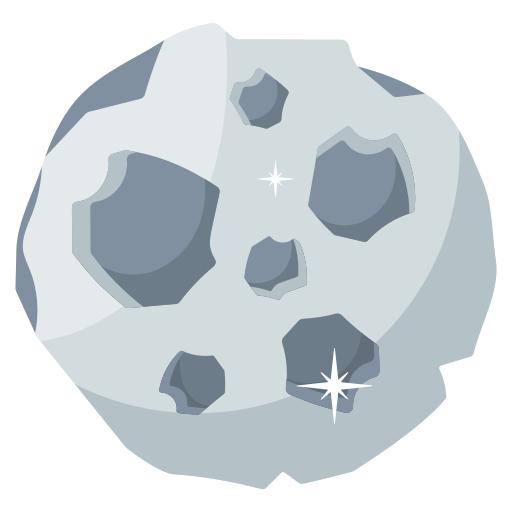
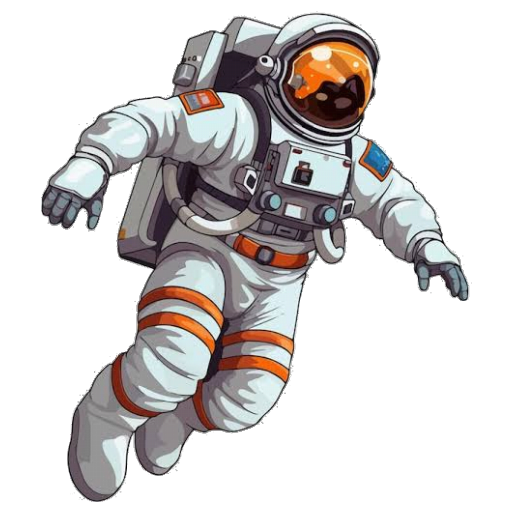
astronauta al posto delle pleiadi

diff --git a/giochi/slot/slot.py b/giochi/slot/slot.py
@@ -437,7 +437,7 @@ NOMI_TEMA = {
         "cuori": "Mars", "picche": "Exoplanet", "fiori": "Uranus",
         "quadri": "Neptune",
         "campana": "TRAPPIST-1", "ferro": "Proxima", "quadrifoglio": "Jupiter",
-        "carte": "Earth", "roulette": "Saturn", "fiches": "Pleiades",
+        "carte": "Earth", "roulette": "Saturn", "fiches": "Astronaut",
         "gemma": "UFO", "bar": "Rocket", "sette": "Sun",
         "regalo": "Alien",
         "dollaro": "Galaxy", "palla8": "Nebula",
@@ -451,7 +451,7 @@ NOMI_TEMA_LINGUA = {
                "mela": "Plutone", "fragola": "Luna", "anguria": "Mercurio",
                "uva": "Venere", "cuori": "Marte", "picche": "Esopianeta",
                "fiori": "Urano", "quadri": "Nettuno", "quadrifoglio": "Giove",
-               "carte": "Terra", "roulette": "Saturno", "fiches": "Pleiadi",
+               "carte": "Terra", "roulette": "Saturno", "fiches": "Astronauta",
                "gemma": "UFO", "bar": "Razzo", "regalo": "Alieno", "sette": "Sole",
                "dollaro": "Galassia", "palla8": "Nebulosa",
                "jolly": "Spazio", "dadi": "Cometa"},
@@ -459,7 +459,7 @@ NOMI_TEMA_LINGUA = {
                "mela": "Pluton", "fragola": "Lune", "anguria": "Mercure",
                "uva": "Venus", "cuori": "Mars", "picche": "Exoplanete",
                "fiori": "Uranus", "quadri": "Neptune", "quadrifoglio": "Jupiter",
-               "carte": "Terre", "roulette": "Saturne", "fiches": "Pleiades",
+               "carte": "Terre", "roulette": "Saturne", "fiches": "Astronaute",
                "gemma": "OVNI", "bar": "Fusee", "regalo": "Alien", "sette": "Soleil",
                "dollaro": "Galaxie", "palla8": "Nebuleuse",
                "jolly": "Espace", "dadi": "Comete"},
@@ -467,7 +467,7 @@ NOMI_TEMA_LINGUA = {
                "mela": "Pluton", "fragola": "Luna", "anguria": "Mercurio",
                "uva": "Venus", "cuori": "Marte", "picche": "Exoplaneta",
                "fiori": "Urano", "quadri": "Neptuno", "quadrifoglio": "Jupiter",
-               "carte": "Tierra", "roulette": "Saturno", "fiches": "Pleyades",
+               "carte": "Tierra", "roulette": "Saturno", "fiches": "Astronauta",
                "gemma": "OVNI", "bar": "Cohete", "regalo": "Alien", "sette": "Sol",
                "dollaro": "Galaxia", "palla8": "Nebulosa",
                "jolly": "Espacio", "dadi": "Cometa"},
@@ -1138,9 +1138,8 @@ ANIMAZIONI = {
         "quadrifoglio": {"gira": 0.78},          # Giove, 9 ore e 55
         "carte": {"gira": 0.50},                 # Terra, 24 ore
         "roulette": {"gira": 0.74},           # Saturno, 10 ore e mezza
-        # le sette sorelle: disegnate dal codice, brillano e la nebbia
-        # azzurra che le avvolge scorre piano
-        "fiches": {"pleiadi": 0.11},
+        # l'astronauta: galleggia piano, come chi non ha peso
+        "fiches": {"onda": 0.055},
         # la galassia a spirale: disegnata dal codice, gira su se stessa
         "dollaro": {"galassia": 0.06, "misura": 1.95},
         # la nebulosa non e' una PNG: la disegna il codice, tre veli di
